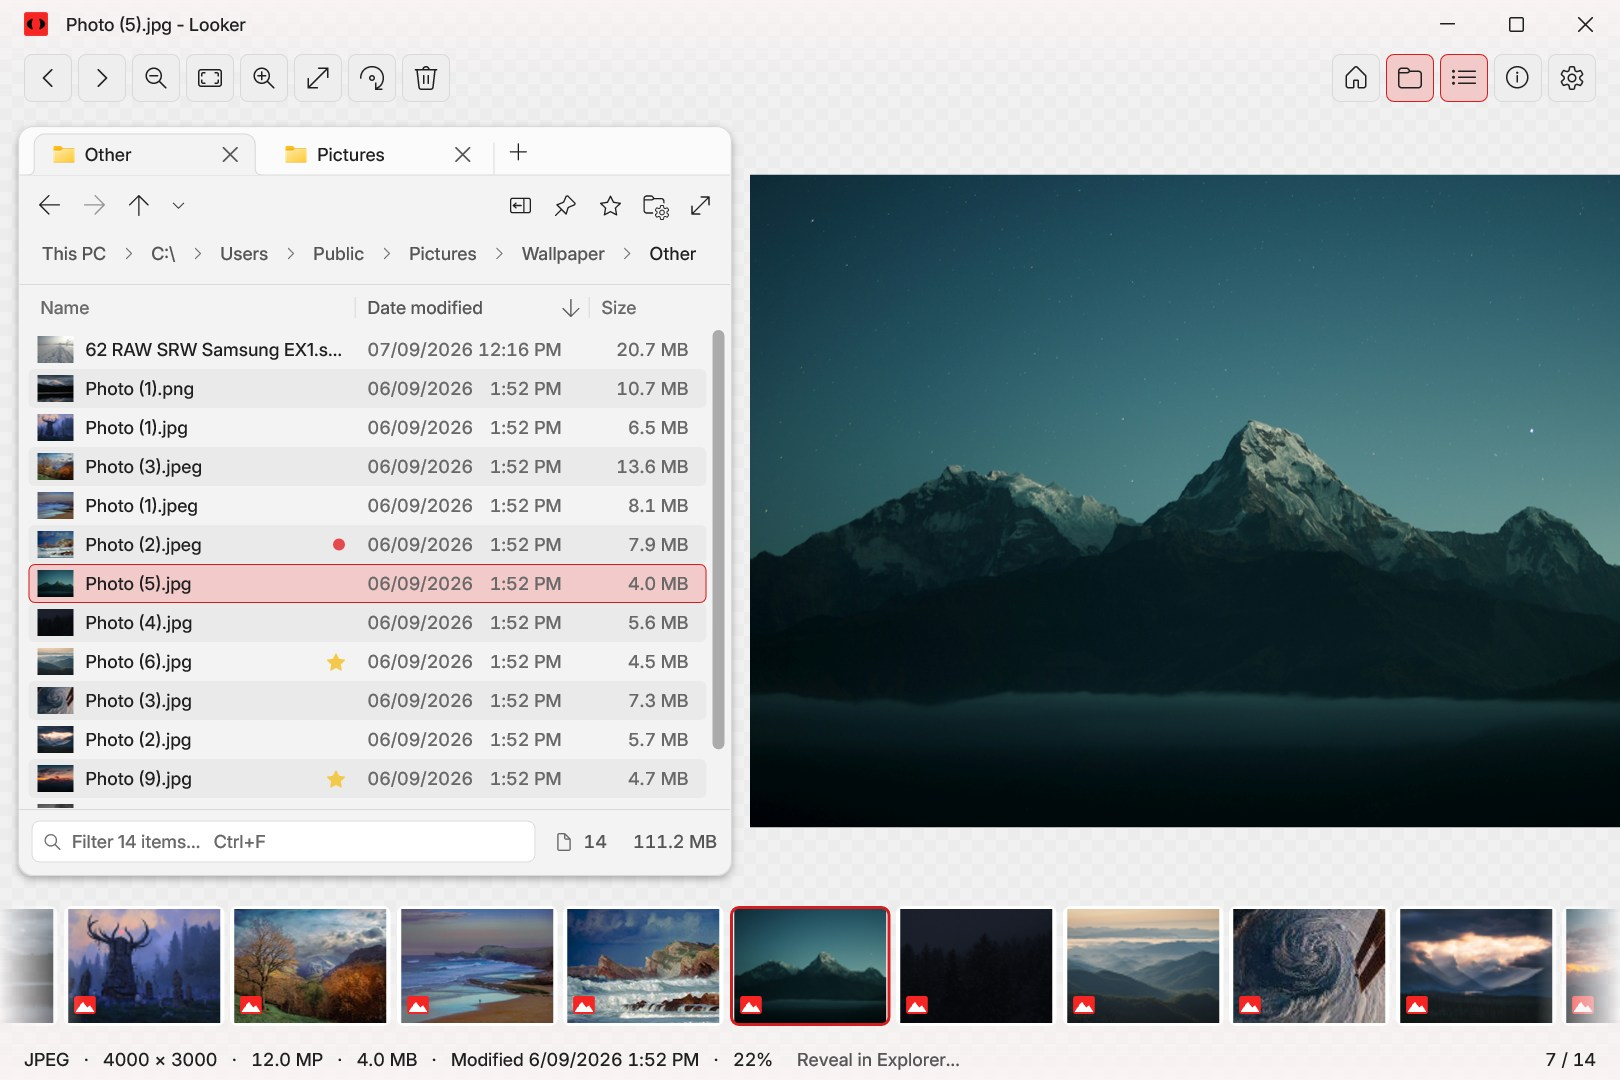
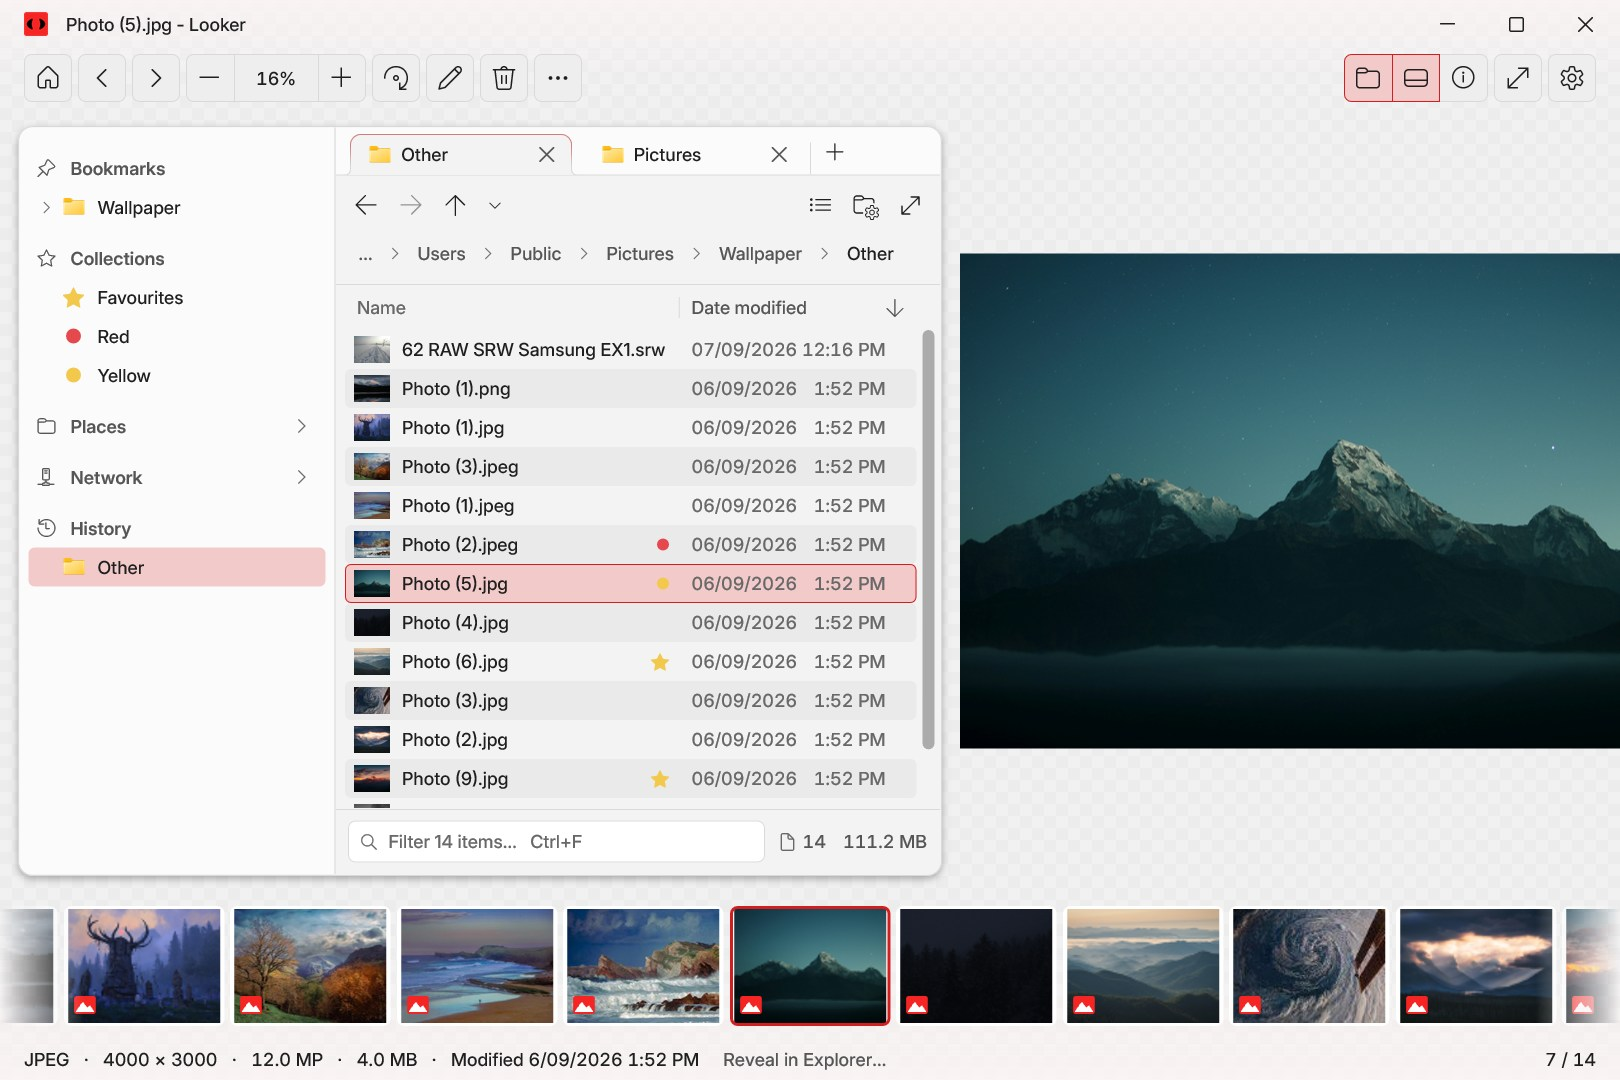
README: screenshots of the current design (2.1.131)
The toolbar, the always-there sidebar, the pencil and the info panel as they are now. The explorer shot is the
card at its widest: browse mode opens to the window's middle, no wider at this size.

diff --git a/README.md b/README.md
@@ -28,7 +28,7 @@ it keeps itself up to date.
 - Move, copy, rename, delete and new folder, with undo. Drag onto folders and tabs, or out to other apps.
 - Favourites and colour tags.
 
-<img src="brand/screenshots/readme-explorer.jpg" alt="Browse mode: tabs, the sidebar and the file list" width="700">
+<img src="brand/screenshots/readme-explorer.jpg" alt="The file explorer: tabs, the sidebar and the file list" width="700">
 
 ## Viewer
 
